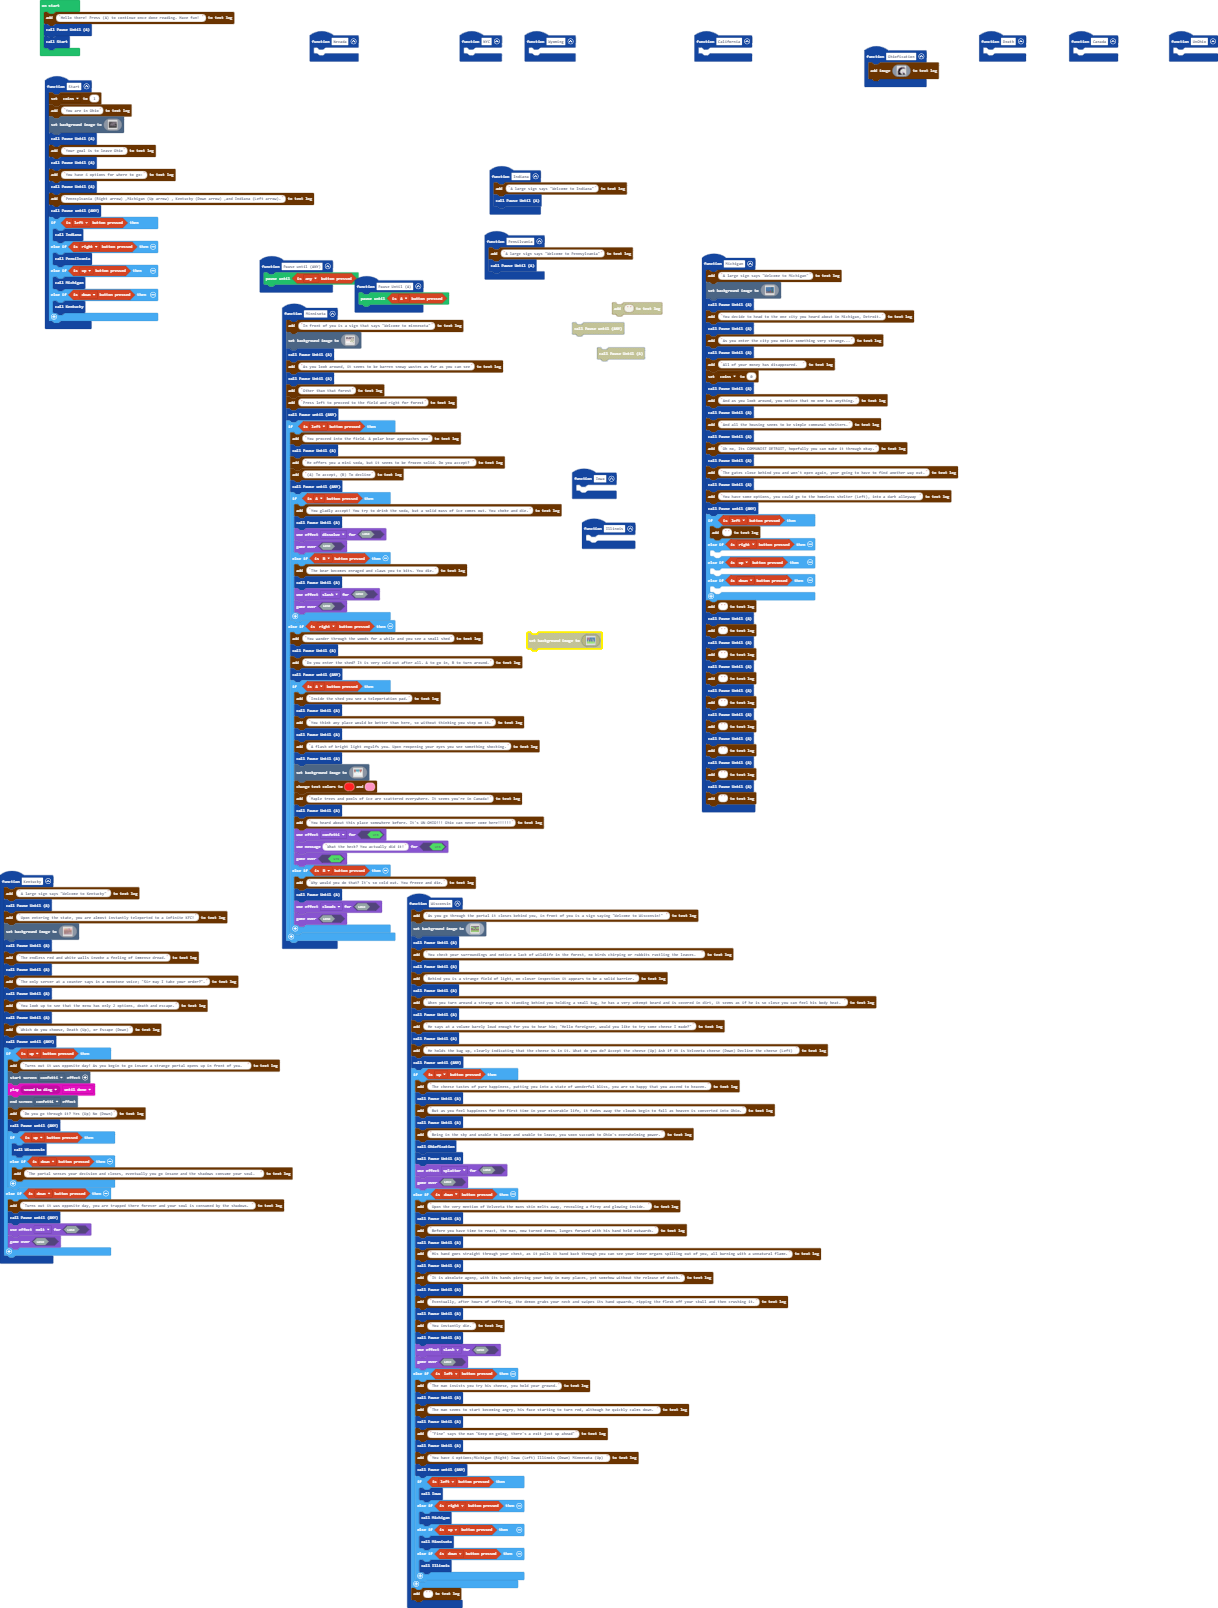
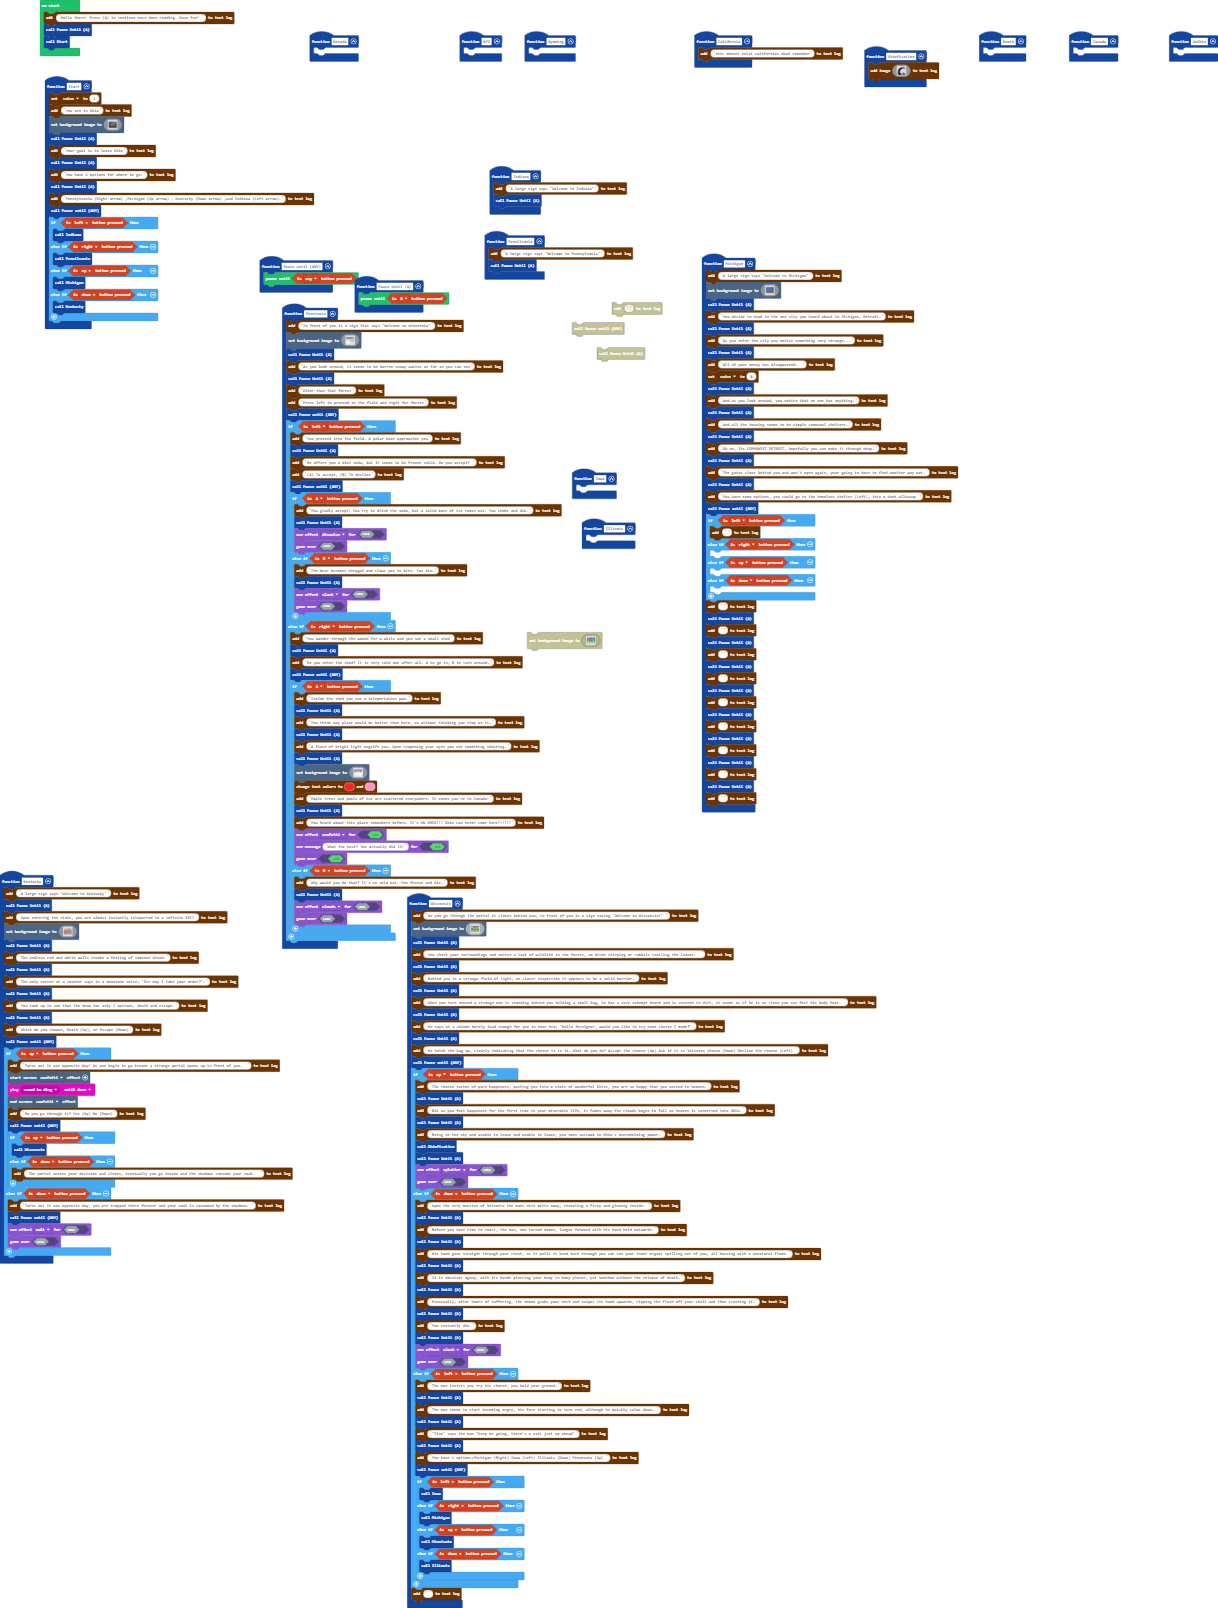
Update main.blocks, main.ts

Changed region(s): [[0.3432, 0.7152, 0.5616, 0.7774], [0.5616, 0.0311, 0.624, 0.0622], [0.6552, 0.0311, 0.6864, 0.0622]]

diff --git a/main.ts b/main.ts
@@ -1,5 +1,5 @@
 function California () {
-	
+    adventure.addToTextlog("this doesnt exist californias dead remember")
 }
 function Nevada () {
 	
